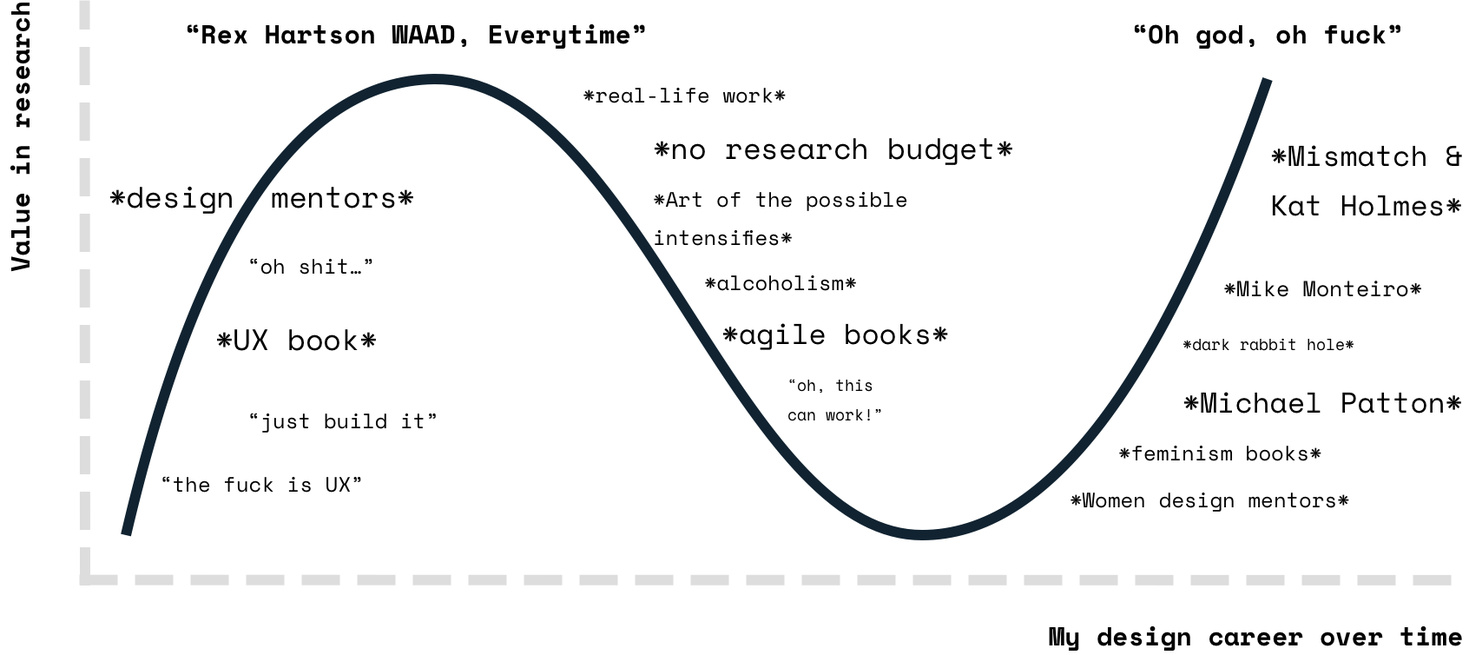
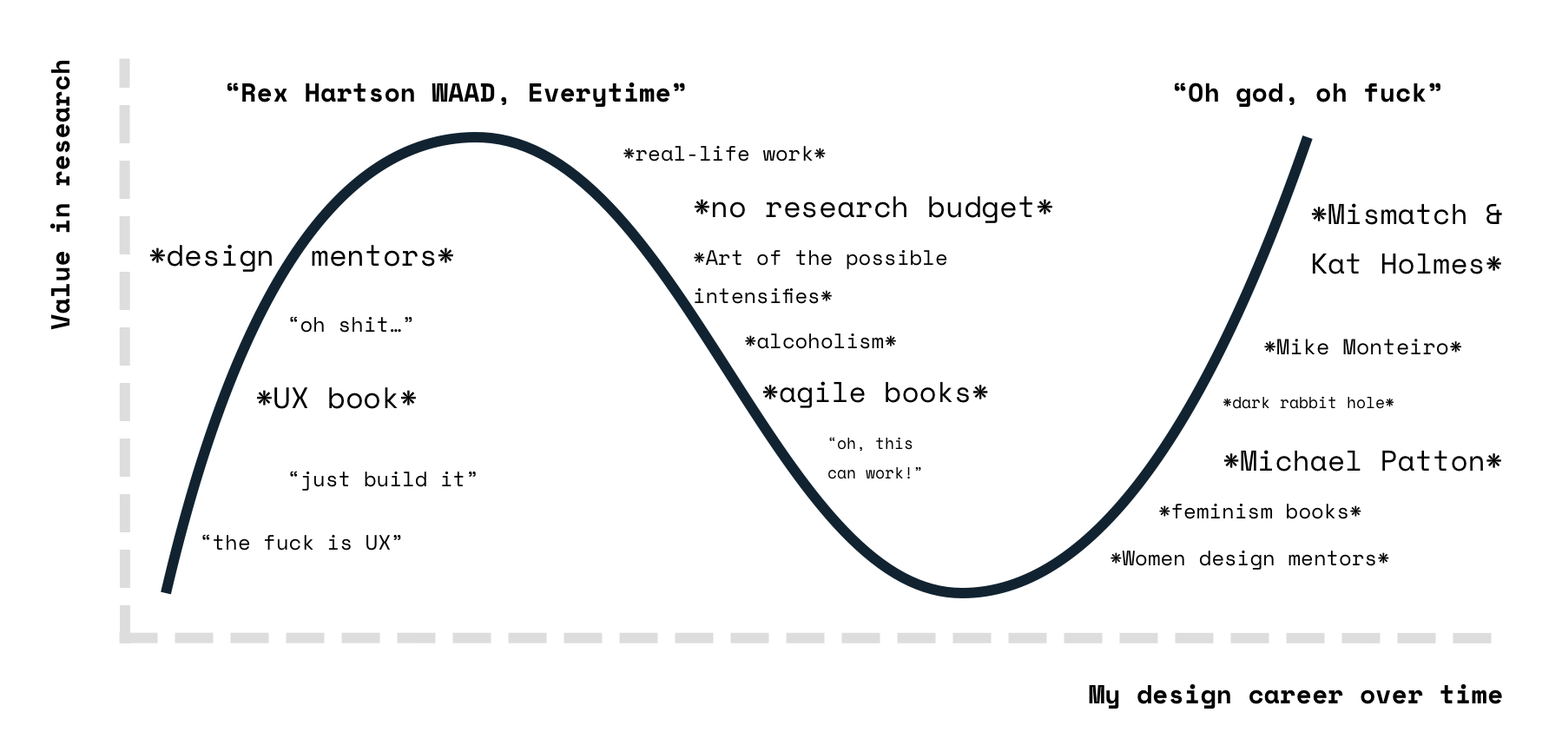
Added "Strip"

Changed region(s): [[0.0, 0.0, 1.0, 1.0], [0.0, 0.305, 0.0922, 0.4881], [0.1844, 0.6101, 0.3073, 0.6711]]

diff --git a/portfolio/strip.html b/portfolio/strip.html
@@ -9,7 +9,7 @@
     <meta property="og:url" content="joshkimux.com/portfolio/include" />
     <meta name="keywords" content="Josh Kim, a11y, accessibility, design, research, inclusive, product, service, ux, user experience, diary, journal, accessibility, portfolio">
 
-    <title>Medium, Portfolio Updates 2020 | Josh Kim is a humanity centered accessibility strategist, educator, and design researcher</title>
+    <title>Strip, Portfolio Updates 2023 | Josh Kim is a humanity centered accessibility strategist, educator, and design researcher</title>
 
     <!-- Stylesheets -->
     <link href="../css/bootstrap.min.css" rel="stylesheet">
@@ -51,7 +51,7 @@
                     <a href="../portfolio.html">Portfolio Updates</a>
                 </li>
                 <li>
-                    <a aria-current="page" href="medium.html">Medium (2020)</a>
+                    <a aria-current="page" href="strip.html">Strip (2023)</a>
                 </li>
             </ol>
         </div>
@@ -64,103 +64,116 @@
                 <div class="container">
                     <div class="row justify-content-center">
                         <div class="col-lg-9 col-xl-8">
-                            <h1><span class="h-desc">2020 in Review</span> Medium</h1>
-                            <p>I’m starting this out with a detour. The original title of this annual reflection was, “The Medium is the Massage.” It’s designer jargon for how our tools change how we see and interact with the world. I picked that phrase as the original title to discuss three personal lessons:</p>
+                            <h1><span class="h-desc">2023 in Review</span> Strip</h1>
+                            <p><em>Transitive verb, 3: to make bare or clear.</em></p>
+                            <p>This year I:</p>
                             <ul>
-                                <li><strong>My tools, skills, cognition, and workplace control how I design</strong> more than I can control them.</li>
-                                <li><strong>I can regain some control back</strong> by studying my current tools more, widening my skillsets, exposing myself to new perspectives, actively checking my own biases, and changing environments (for example, switching jobs).</li>
-                                <li><strong>I know more than ever before that I know very little</strong>, and that's a good thing. It's allowed me to reframe my imposter syndrome as something valuable in my work as a designer. It grounds me in my approach as a facilitator instead of an expert; as a team member and not a genius (which is dangerous for a number of reasons).</li>
-                            </ul>  
+                                <li>Reduced my main navigation in half</li>
+                                <li>Cut most content to follow the rule of threes</li>
+                                <li>Added dark mode</li>
+                            </ul>
                         </div>
-                        <figure class="col-lg-10">
-                            <img class="ft-img " src="../img/website/medium/old-draft.png" style="width:100%;" alt="My original iteration on google docs was titled the medium is the massage and was chalk full of designer jargon."/>
-                        </figure>
-                        <div class="col-lg-9 col-xl-8">
-                            <p>I made these simple points more complicated than they had to be by writing my first draft like a design lecture outwards (to you, my reader) rather than a personal reflection inwards. I was trying to make myself sound smart-- which is ironic-- because the point I was trying to make was that I’m really not that smart at all. </p>
-                            <p>Personal note. I started this reflection thing to remind myself of two points annually:</p>
-                            <ul>
-                                <li>I must be critical of my perspective and shortcomings</li>
-                                <li>There will always be something to improve on</li>
-                            </ul>
-                            <p>Had I published a paper instead of a genuine, open reflection, I would have failed... but at this point, I was kinda stuck. How might I reflect on my year without overcomplicating the task or the message?</p>
-                            <h2>Conversation as an alternative</h2>
-                            <p>Given that the act of publishing makes me deliberate my thoughts to death, I became interested in exploring a different kind of medium; specifically, conversation. Why?</p>
-                            <ul>
-                                <li>Conversations feel alot more natural to me than trying to write up an article</li>
-                                <li>I can't edit out my thoughts or make myself sound smarter than I actually am</li>
-                                <li>Conversations are a two way street; it ain't gonna work if one party treats it like a lecture</li>
-                                <li>I was interested to see <em>how I reflect</em> would change in this context</li>
-                                <li>Selfishly, I wanted an excuse to reach out to my good old friend and mentor Nerissa</li>
-                            </ul>
-                            <p>And so I did! I invited Nerissa to join me on a podcast to reflect on our year, talk about our new jobs, compare inclusive cultures against toxic workplaces, and just about everything else in between.</p>
+                        <div class="col-lg-12">
                             <figure>
-                                <img src="../img/website/medium/nerissa.jpg" alt="A petite Filipino women sitting at a table full of dixie cups surrounded by smiling designers." />
-                                <figcaption>
-                                    Nerissa was the first person who really showed me what it meant to design an inclusive workplace. 
-                                </figcaption>
+                                <img class="ft-img " src="../img/website/strip/strip.png" style="width:100%;" alt="An updated homepage in dark mode with a simple headline and no distracting links"/>
                             </figure>
+                        </div>
+                        <div class="col-lg-9 col-xl-8">
+                            <p>I still need to:</p>
+                            <ul>
+                                <li>Update my case studies to show more ✨ impact ✨</li>
+                                <li>Add transcripts to talks</li>
+                                <li>Trash and rewrite my deteriorating, ugly ass CSS from scratch</li>
+                            </ul>
+                            <p>Special thanks to:</p>
+                            <ul>
+                                <li>Silvia and Marcus, y’all the real OGs</li>
+                                <li>Portfolio pals, especially Eli, Annie, and Dené</li>
+                                <li>And a special shoutout to Alex Kramer, I’ve never forgotten your generosity when you hosted me for my first portfolio critique</li>
+                            </ul>
+                        </div>
+                        <div class="col-lg-9 col-xl-8">
+                            <h2>Year in review</h2>
+                            <h3>Knowing is one thing, and feeling is another.</h3>
+                            <p>This year I found myself wrestling more with my sense of identity, as most humans my age do, in hopes I could shorten the gap between knowing how I should feel and feeling what I think should feel.</p>
+                            <p>For example, I <em>know</em> how to be present, but I can’t <em>feel</em> it in the way I think I should. I can curl my toes, hum a song, take a walk– but I often find any sense of presence to be transitory. It’s frustrating. It’s youth. Or capitalism. Or trauma.</p>
+                            <p>Regardless, I have tried (and have continued to fail) to find concrete answers that I both know and feel to be true. Specifically on:</p>
+                            <ul>
+                                <li>who I should be (family), </li>
+                                <li>who I need to be (society) and </li>
+                                <li>who I want to be (true self)</li>
+                            </ul>
+                            <p>That’s not to say I didn’t make progress, if I can call it that. By progress, I think I mean deconstruction. But strip feels like a better word. It carries shame. Emotionally this process of unlearning has been raw and humiliating, but it has yielded progress nonetheless.</p>
+                            <p>By stripping away who I should be over the last couple of years (by distancing myself from my birth family), I've found that my life goals were more of a chain reaction to intergenerational trauma than to my own self-actualization.</p>
+                            <p>Although I still don’t know who I want to be (true self), I do feel I have more space and autonomy to imagine that future. I have a better grasp of personal values I can use to navigate day to day decisions.</p>
+                            <p>To continue my journey this year, I focused more on stripping away who I need to be (society). For me, and many other Americans, that’s inseparable from our working identity.</p>
+                            <p>So I tried to learn more about:</p>
+                            <ul>
+                                <li>what is the history of my work (as a designer and former consultant)</li>
+                                <li>who am I within it and </li>
+                                <li>who am I without it?</li>
+                            </ul>
+                            <h3>Can I love?</h3>
+                            <p>I was able to deepen my understanding on how:</p>
+                            <ul>
+                                <li>Colonization has shaped society’s understanding of work and community. For example, how the introduction of cattle slavery solidified disability as a physical category “centered on which bodies and minds have or generate economic value under taxing working conditions” (Against Technoableism).</li>
+                                <li>Corporations are less about making and fixing things and more about “political processes of appropriating, distributing, and allocating money and resources” (Bullshit Jobs).</li>
+                                <li>The consulting industry is preventing governments and businesses from “evolving the capabilities they need to transform our economies for the common good” (The Big Con). </li>
+                                <li>Technological advances in design “only make some lives better” from the lens of decolonization. For example, the cotton gin lead to the nearly five-fold increase in slavery within a period of sixty years and the top-ten largest server farms take up 11.7 million square feet of stolen Indigenous lands (Decolonizing Design).</li>
+                                <li>And more– but that’ll make this entry a bit too long.</li>
+                            </ul>
+                            <p>Looking back on what I’ve learned, I sometimes wonder if I feel any sense of joy from my work anymore. For example, I had an interview earlier this year. I was asked what technologies or mobile app features I loved. </p>
+                            <p>And I froze. </p>
+                            <p>I could think of many technologies.</p>
+                            <p>But can I love them? </p>
+                            <p>How can I have pride in my identity as a designer when it's been crafted within systems that exploit, manipulate, and exclude people I love? How can I love technology when it is so deeply intertwined with incentives that divide us more than they bring us together?</p>
+                            <p>To many reading this (myself included), this sounds reactionary. It is. </p>
+                            <p>But as much as my brain understands that generalizations like this are deeply inactionable, I still find it difficult to maintain the energy to fight that instinct when our histories and futures continue to be muddy, complex, and hurtful.</p>
+                            <p>So I’ll try to remind myself out loud what I think the answer to this is.</p>
+                            <h3>I need to touch grass more. </h3>
+                            <p>By touch grass, I mean to be in community. To study through people in groups (espresso), and not just books in isolation (depresso). Instead of conserving energy alone, I want to learn how to better receive, give, and grow it together with people I love. That means expending what little energy I have in my little corner of the universe to resist the systems designed to isolate and exploit us even more.</p>
+                            <p>I think I’ve done that a little bit better this year. </p>
+                            <p>As uncomfortable as it has been to strip apart a little more of my working identity and ego, it’s helped me to become more vulnerable, honest, interdependent, and caring as a mentor (thanks Tiff and Cath), mentee (thanks Rachael and Lydia), speaker (thanks Dave), and designer (all my VA a11y friends who I miss way too much, my portfolio pals, my Ad Hoc middle management buddies, DC design week friends, Evan and Daniel, and more). </p>
+                            <p>While these values may be at odds with the work I’ve chosen, I’ve learned through emergent strategy that what I pay attention to will grow in fractals. Like fungi.</p>
+                            <p>If I can focus on these values locally at a smaller scale, I hope one day they will emerge more sustainably as larger patterns in my life.</p>
+                            <p>So next year I hope to ask for help more. To persist with vulnerability. To lose track of time and productivity if it's with others. To be loved.</p>
+                            <p>If I can pay more attention towards who I am in a community and less towards who I need to be for work, maybe I’ll get a little closer to understanding who I want to be too.</p>
+                            <h2>Bonus</h2>
+                            <h3>Talks or articles ya boi wants to manifest but can’t yet</h3>
+                            <ul>
+                                <li>Advocates, not experts. The case for shame-sensitive accessibility practices. (Mostly to write about my experience managing and coaching accessibility specialists in large organizations).</li>
+                                <li>A trauma-informed approach to design mentorship for Asian Americans or accessibility specialists. (I’d be interested in writing about my experiences with both and how to make use of assets-based mentorship, build competency constellations, and flatten power dynamics). </li>
+                                <li>The swiss cheese model of accessibility testing. (I kinda wrote on this already at the VA, but it never got published… yet. Brian will, one day.)</li>
+                            </ul>
+                            <h3>Things I was proud of this year</h3>
+                            <ul>
+                                <li>Looking back on my 3 years at the VA and Ad Hoc, for once in my life I feel like I’ve made an actual, measurable and positive difference. </li>
+                                <li>I gave a talk with my good friend Dave at UVA on design ethics! If I was smarter and had money I’d love to go back to school to become qualified enough to do this full time.</li>
+                                <li>I made a more conscious effort to prioritize my personal life over my work life (including a job change and two trips to visit my in-laws). It came with a ton of anxiety that my technical skills are rotting and I’ll never be employable again, but I did it. I took the step.</li>
+                            </ul>
                             <figure>
-                            <audio id="player" style="width:100%;" controls>
-                                <source src="../img/website/medium/2020.mp3" type="audio/mp3" />
-                            </audio>
-                            <figcaption>
-                                <a href="../img/website/medium/2020.docx" download="2020-Josh-Nerissa.docx" type="application/docx">
-                                Transcript of Reflecting on 2020 with Nerissa (Word Document, 23KB)
-                                </a>
-                            </figcaption>
+                                <img src="../img/website/strip/fishing.png" style="width:100%;" alt="A brown tabby cat on a desk full of house plants. A poster is in the background with a collage of memes and thanks for my work at VA."/>
+                                <figcaption>I spent time winter fishing in the local creek with my in-laws in Shizuoka. It's hard to remember a time I've been more full or present stateside.</figcaption>
                             </figure>
 
-                            <h2>Portfolio redesign</h2>
-                            <p>By redesign, I mean burning the old portfolio in a dumpster fire and starting afresh from zero. Improvements included:</p>
+                            <h3>Things I boarded the struggle bus on</h3>
                             <ul>
-                                <li>A simple, semantic foundation</li>
-                                <li>Mobile first design and development</li>
-                                <li>Accessibility</li>
-                                <li>Content and IA updates</li>
+                                <li>I continue to love reading about stuff that makes me sad and will never support me financially.</li>
+                                <li>I’ve been ghosted a couple of times in my search for a new therapist thanks to a new insurance plan.</li>
+                                <li>When I needed it the most, I failed to reach out to my friends for personal, non-work related help. I was conditioned to be an asset, and that’s still hard to unlearn.</li>
                             </ul>
+                            <h3>My favorite reads in 2023</h3>
+                            <ul>
+                                <li>Trauma stewardship. I was skeptical at first, but the author was just so darn human that all my cynicism melted away.</li>
+                                <li>Emergent strategy. I finally feel I have an actual, non-corporate playbook for sustainable and loving transformation.</li>
+                                <li>You deserve a tech union. Like damn, I actually feel I can form a union now. </li>
+                            </ul>
+                            
                         </div>
                         <figure class="col-lg-10">
-                            <img class="ft-img " src="../img/website/medium/final-portfolio-home.png" style="width:100%;" alt="A cleaner interface with less distractions and more focus on my content without being overly verbose." />
+                            <img class="ft-img " src="../img/website/strip/toro.png" style="width:100%;" alt="A brown tabby cat on a desk full of house plants. A poster is in the background with a collage of memes and thanks for my work at VA."/>
+                            <figcaption>I hung up a poster of a farewell board some friends at VA made for me. It's been an affirming compass of sorts for me that I'm more than just what I produce. My cat hasn't attacked it. Yet.</figcaption>
                         </figure>
-                        <div class="col-lg-9 col-xl-8">
-                            <h3>A simple, semantic foundation</h3>
-                            <p>You can still browse through my portfolio on Internet Explorer without any styles or JS. Yay for progressive enhancement.</p>
-                            <figure>
-                                <img class="ft-img" src="../img/website/medium/nostyle.png" style="width:100%;" alt="My homepage stripped down without any styles, yet it still reads fine!" />
-                            </figure>
-                        </div>
-                        <div class="col-lg-9 col-xl-8">
-                            <h3>Mobile first design and development</h3>
-                            <p>Mobile wireframes and responsive prototypes guided my efforts. My CSS is written to scale up to larger screens (as opposed to down).</p>
-                            <figure>
-                                <picture>
-                                    <source srcset="../img/website/medium/mobile.gif" media="(prefers-reduced-motion: no-preference)" />
-                                    <img class="ft-img" src="../img/website/medium/mobile.jpg" alt="My portfolio responsively resizing as the screen widens.">
-                                </picture>
-                            </figure>
-                        </div>
-                        <div class="col-lg-9 col-xl-8">
-                            <h3>Accessibility</h3>
-                            <p>I've taken extra care to create a portfolio everyone can experience including skip links, logically ordered headings, and reduced motion for animations. For more, <a href="../accessibility.html">check out my accessibility statement</a>.</p>
-                            <figure>
-                                <picture>
-                                    <source srcset="../img/website/medium/motion.gif" media="(prefers-reduced-motion: no-preference)" />
-                                    <img class="ft-img" src="../img/website/medium/motion.png" alt="Checking off reduce motion will stop animations and gifs.">
-                                </picture>
-                            </figure>
-                        </div>
-                        <div class="col-lg-9 col-xl-8">
-                            <h3>Content and IA updates</h3>
-                            <p>I've removed my old portfolio projects in favor of probono work, articles, talks, and a resume. I don't have the time to torture myself over new portfolio pieces.</p>
-                            <figure>
-                                <img class="ft-img" src="../img/website/medium/resume.jpg" style="width:100%;" alt="A responsive web version of my resume with structured headings." />
-                            </figure>
-                            <h3>What's next?</h3>
-                            <p>I'm far from satisfied with the end result. Although I'm not a front end engineer by trade, I want to learn more because I consider code as the raw material of the digital world. Designers who understand the materials they use are far more competent in their craft.</p>
-                            <p>There's also still alot of work to be done to improve the accessibility of this website (accessibility work is never finished). I still haven't tested this on JAWS and NVDA (I need a windows computer) and there's a large amount of presentations and pdfs that require converting to a more inclusive format.</p>
-                            <p>Finally, I want to do what all the cool kids are doing and switch over to 11ty so I can manage all this stuff easier. Maybe next year. Or the year after that.</p>
-                        </div>
-                       
                     </div><!-- row -->
                 </div><!-- container -->
             </div><!-- content -->
@@ -174,18 +187,18 @@
                         <div class="writing-content">
                             <div class="writing-heading">
                                 <h2>
-                                    <a href="../portfolio/include.html">
-                                        Include
+                                    <a href="../portfolio/tension.html">
+                                        Tension
                                     </a>
                                 </h2>
                             </div>
-                            <p>2019 popped my bubble of naive realism and projection bias. As a result, I want to create more meaningful and inclusive products.</p>
+                            <p>I’m still trying to figure out my sense of balance, identity(ies), and goals in a deeply unjust and complex world.</p>
                             <aside role="note">
-                                <p>2019 in Review</p>
+                                <p>2022 in review</p>
                             </aside>
                         </div>
                         <div class="writing-img">
-                            <img class="poop" src="../img/website/include/include.png" alt="The 2019 homepage of Josh Kim UX was set on a white background. It was titled Inclusive UX Researcher and Designer with a yellow call to action and my ugly face on the right." />
+                            <img class="poop" src="../img/website/tension/tension.png" alt="The 2022 homepage of my portfolio. It was titled Josh, co-designs equitable and anti-ableist experiences." />
                         </div>
                     </li>
                 </ul>
@@ -193,6 +206,7 @@
         </div>
     </aside>
 
+    <!-- Footer -->
     <!-- Watermark -->
     <div class="xl-only" id="d-logo">
         <svg aria-hiden="true" width="403" height="403" viewBox="0 0 403 403" fill="none" xmlns="http://www.w3.org/2000/svg">

diff --git a/portfolio/include.html b/portfolio/include.html
@@ -117,7 +117,7 @@
 
                     <div class="row justify-content-center">
                         <figure>
-                            <img class="no-border" src="../img/website/include/research-graph.svg" style="width:100%;" alt="Graph depicting my relationship with research. Originally I started not caring for it at all, but eventually that grew strongly after design mentorship and the UX book. Due to real world work though, that crumbled and I began to study more into agile/ux and so called best practices. This made me feel more confident in my own skills and led me to take shortcuts. However, after reading more feminist books in 2019, my value in research once again skyrocketed." />
+                            <img src="../img/website/include/research-graph.png" style="width:100%;" alt="Graph depicting my relationship with research. Originally I started not caring for it at all, but eventually that grew strongly after design mentorship and the UX book. Due to real world work though, that crumbled and I began to study more into agile/ux and so called best practices. This made me feel more confident in my own skills and led me to take shortcuts. However, after reading more feminist books in 2019, my value in research once again skyrocketed." />
                             <figcaption>
                                 <div class="row justify-content-center">
                                     <div class="col-sm-11 col-md-10 col-lg-8">My relationship with research has changed alot over the years. From not caring about it at all, to dogmatic belief in academia, to blindly trusting my "skill", and then realizing the limits of my perspective.</div>
@@ -219,10 +219,10 @@
                             </ol>
 
                             <figure class="picture-caption">
-                                <img class="no-border" src="../img/website/include/logo.svg" alt="My new, clean, and simple compared to my old logos which are too ugly to describe.">
+                                <img src="../img/website/include/logo.png" alt="My new, clean, and simple compared to my old logos which are too ugly to describe.">
                             </figure>
                             <figure class="picture-caption">
-                                <img class="no-border" src="../img/website/include/logo_2.svg" alt="A visual breakdown showing how the logo forms the shape of the A11Y logo and my last name Kim.">
+                                <img src="../img/website/include/logo-2.png" alt="A visual breakdown showing how the logo forms the shape of the A11Y logo and my last name Kim.">
                             </figure>
 
                             <p>The new logo reinterprets pieces of my old design. I’ve retained the background shape that represents “M” with friendly rounded corners. At the center is a bird’s eye view of the A11Y human logo for my commitment towards accessibility. The arms and head cut out the shape of a K in the shape and the head and arm combine to form a lower case i. Together the logo spells out my last name similar to previous iterations, but still manages to encapsulate my tenet of simplicity. At the size of a favicon, it remains interpretable.</p>
@@ -249,13 +249,13 @@
                             <div class="writing-heading">
                                 <h2>
                                     <a rel="next" href="../portfolio/iterate.html">
-                                        Iterate, 2018 in Review
+                                        Iterate
                                     </a>
                                 </h2>
                             </div>
                             <p>I didn’t sit down in front of my computer to muscle an update in one go. Instead, it was an iterative process.</p>
                             <aside role="note">
-                                <p>Published <time datetime="2018-12">December 2018</time></p>
+                                <p>2018 in Review</p>
                             </aside>
                         </div>
                         <div class="writing-img">

diff --git a/portfolio.html b/portfolio.html
@@ -64,6 +64,24 @@
                         <div class="writing-content">
                             <div class="writing-heading">
                                 <h2>
+                                    <a href="portfolio/strip.html">
+                                        Strip
+                                    </a>
+                                </h2>
+                            </div>
+                            <p>Stripping away from my working identity and ego has helped me connect more authentically with people. And touch more grass.</p>
+                            <aside role="note">
+                                <p>2023 in review</p>
+                            </aside>
+                        </div>
+                        <div class="writing-img">
+                            <img class="poop" src="img/website/strip/strip.png" alt="The 2022 homepage of my portfolio. It was titled Josh, co-designs equitable and anti-ableist experiences." />
+                        </div>
+                    </li>
+                    <li class="jk-card">
+                        <div class="writing-content">
+                            <div class="writing-heading">
+                                <h2>
                                     <a href="portfolio/tension.html">
                                         Tension
                                     </a>

diff --git a/portfolio/identity.html b/portfolio/identity.html
@@ -119,13 +119,13 @@
                             <div class="writing-heading">
                                 <h2>
                                     <a href="https://www.linkedin.com/pulse/importance-re-invention-joshua-kim/">
-                                        Reinvention, 2016 in Review
+                                        Reinvention
                                     </a>
                                 </h2>
                             </div>
                             <p>The doubt kicked in. <em>Maybe my website really is bad.</em> No, sweet and innocent younger me, it sucked and it always will.</p>
                             <aside role="note">
-                                <p>Published <time datetime="2016-12">December 2016</time> on LinkedIn</p>
+                                <p>2016 in Review</p>
                             </aside>
                         </div>
                         <div class="writing-img">

diff --git a/portfolio/iterate.html b/portfolio/iterate.html
@@ -151,13 +151,13 @@
                             <div class="writing-heading">
                                 <h2>
                                     <a href="../portfolio/identity.html">
-                                        Identity, 2017 in Review
+                                        Identity
                                     </a>
                                 </h2>
                             </div>
                             <p>I am a UX Designer. I am not a graphic designer. I am not developer. Can I do work in both? Yes, but that’s not what I want to communicate.</p>
                             <aside role="note">
-                                <p>Published <time datetime="2017-12">December 2017</time></p>
+                                <p>2017 in Review</p>
                             </aside>
                         </div>
                         <div class="writing-img">

diff --git a/portfolio/untitled.html b/portfolio/untitled.html
@@ -99,13 +99,13 @@
                             <div class="writing-heading">
                                 <h2>
                                     <a href="../portfolio/medium.html">
-                                        Medium, 2020 in Review
+                                        Medium
                                     </a>
                                 </h2>
                             </div>
                             <p>I spent alot of time thinking about how little control I have in my work. Alot of that was focused around the mediums I use.</p>
                             <aside role="note">
-                                <p>Published <time datetime="2020-12">December 2020</time></p>
+                                <p>2020 in Review</p>
                             </aside>
                         </div>
                         <div class="writing-img">

diff --git a/portfolio/tension.html b/portfolio/tension.html
@@ -115,13 +115,13 @@
                             <div class="writing-heading">
                                 <h2>
                                     <a href="../portfolio/untitled.html">
-                                        Untitled, 2021 in Review
+                                        Untitled
                                     </a>
                                 </h2>
                             </div>
                             <p>I'm trying to draw a clearer line between work and life. My therapist says it's better for my health.</p>
                             <aside role="note">
-                                <p>Published <time datetime="2022-04">April 2022</time></p>
+                                <p>2021 in review</p>
                             </aside>
                         </div>
                         <div class="writing-img">
